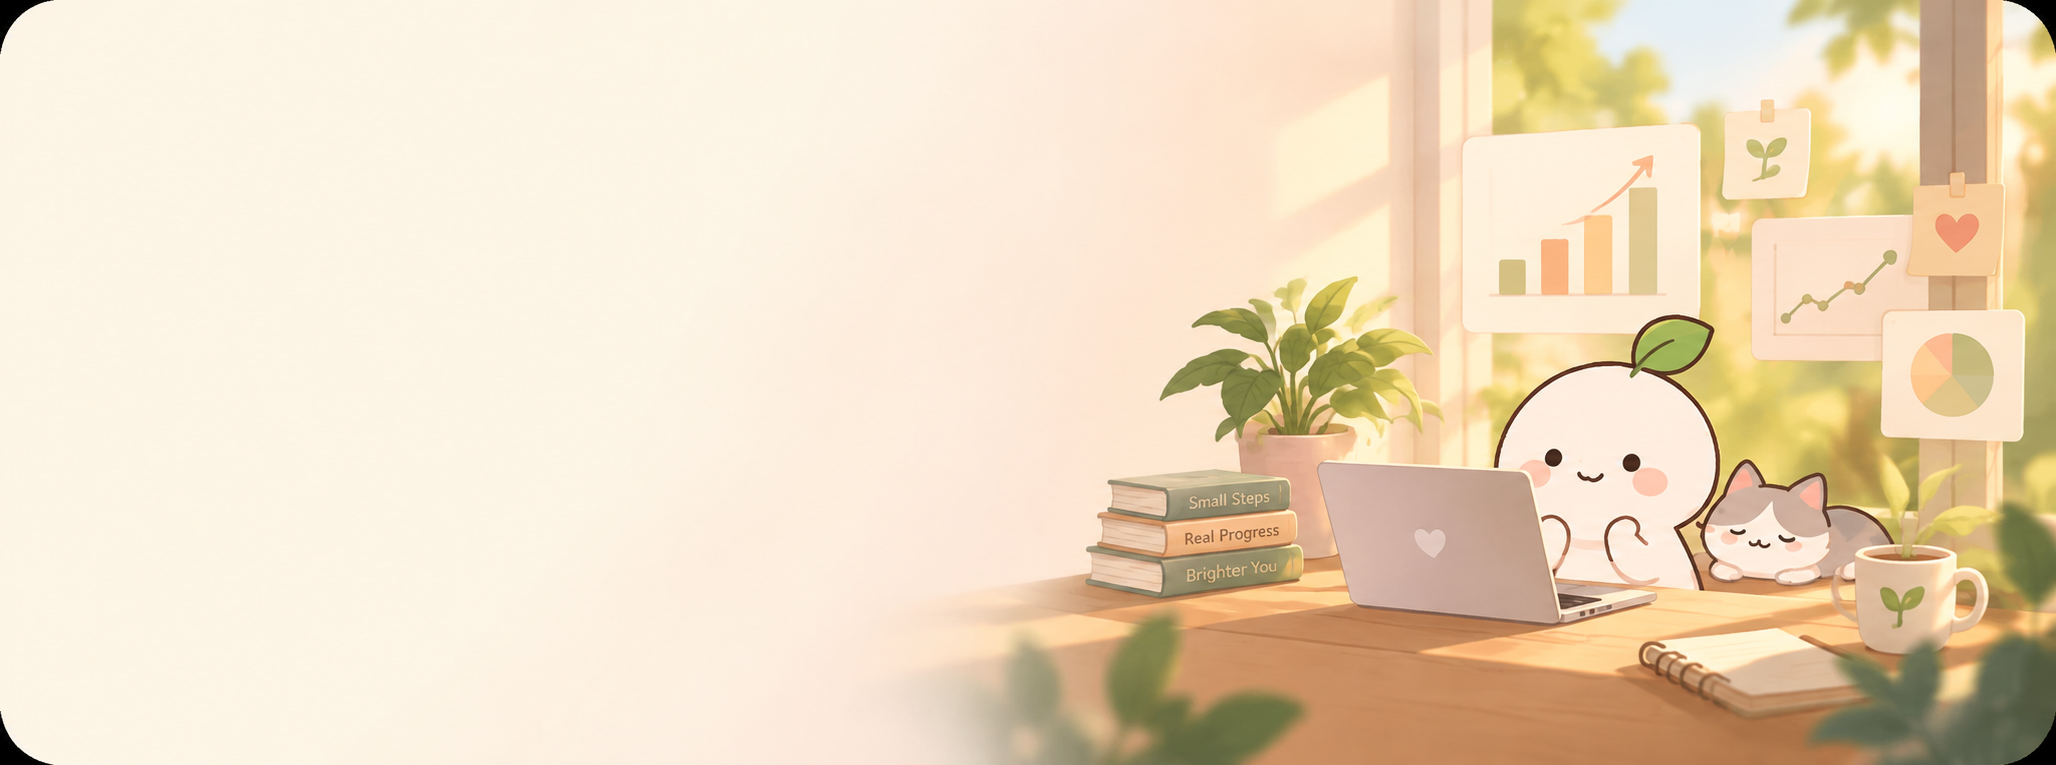
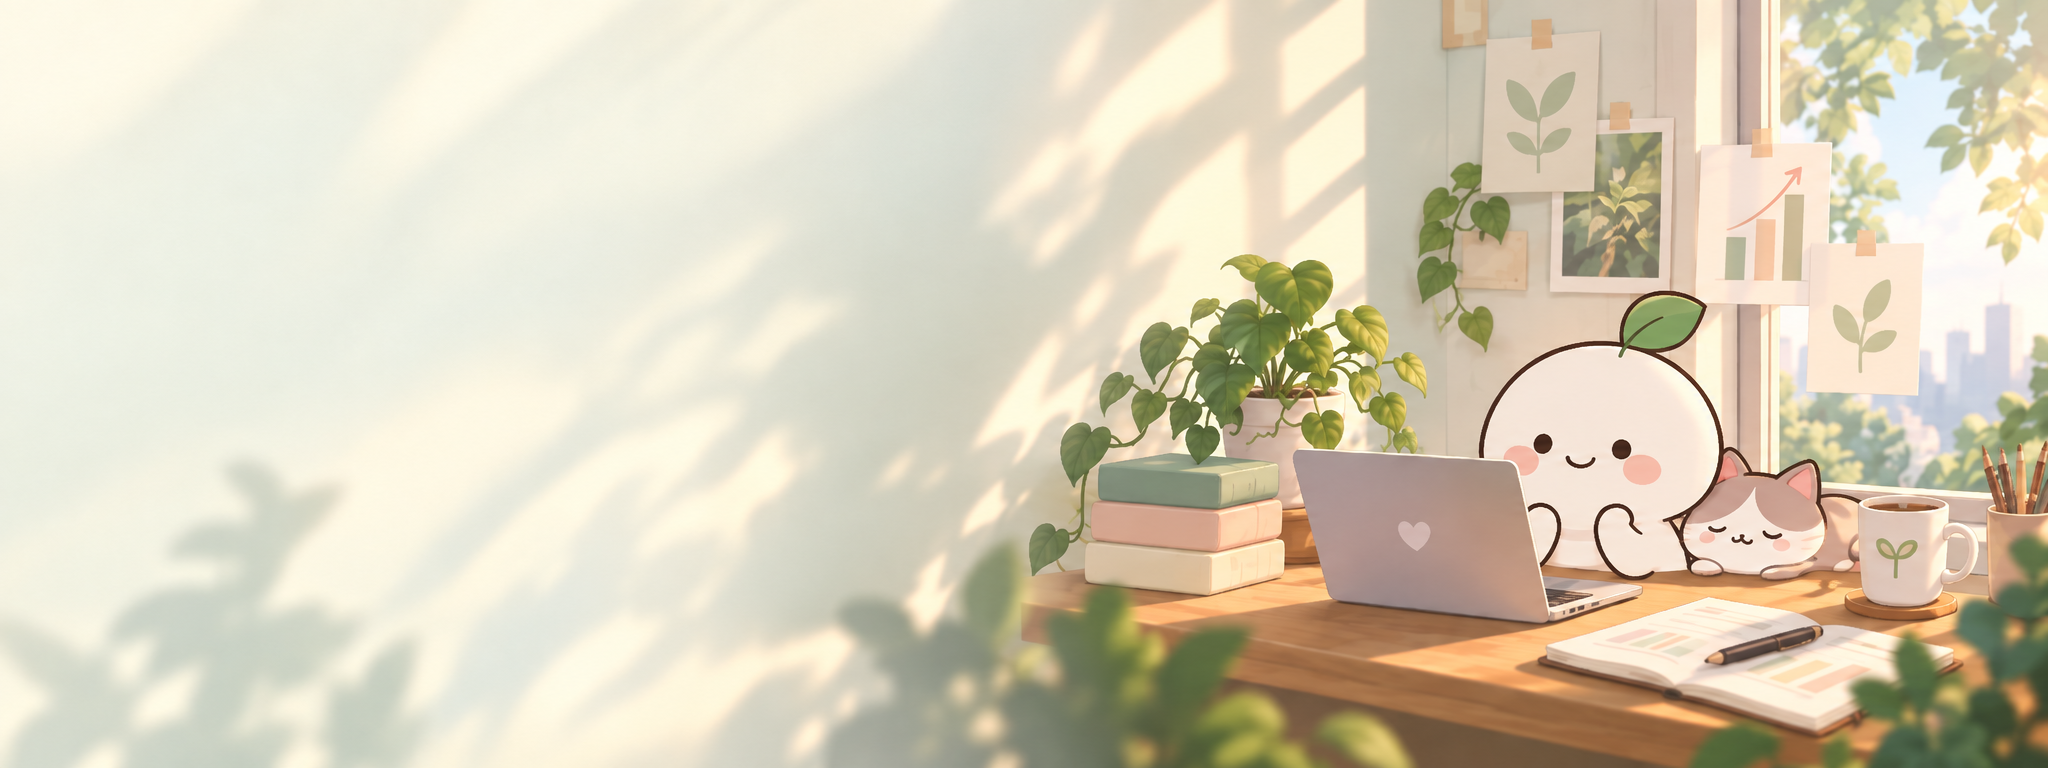
heros pic bug fix

diff --git a/src/js/home.js b/src/js/home.js
@@ -68,21 +68,60 @@ function pickHomeCopyIndex(poolLength,avoidIndex){
   if(idx===avoidIndex) idx=(idx+1)%poolLength;
   return idx;
 }
-const TAB_HERO_ACCENTS={
-  habits:["Progress lives in the everyday ♡","Small steps still count ♡","Keep the rhythm, not the pressure ♡","Tiny repeats become a life ♡","A little today is enough ♡"],
-  circle:["Good people make a softer tomorrow ♡","Keep the people who matter close ♡","Connection is part of a full life ♡","A small reach-out still counts ♡","Relationships grow in small moments ♡"],
-  trends:["Progress is easier to see from here ♡","Small steps leave a pattern ♡","Your rhythm tells a story ♡","Look for direction, not perfection ♡","Little changes become visible ♡"]
+// Sibling tabs (fixed artwork) get one curated {supporting, accent} PAIR per day, never
+// picked independently — a pair is written together so the two lines always agree in
+// tone (see philosophy notes per tab below). Same stable once-per-calendar-day mechanism
+// as Home's copy (HOME_COPY_KEY/dateKey), just storing a pair index instead of three.
+const TAB_HERO_COPY={
+  // Habits: consistency without perfection — smaller versions count, missing once
+  // doesn't erase progress, capacity is allowed to change. No streak-pressure language.
+  habits:[
+    {supporting:"A smaller version still counts as showing up.",accent:"Consistency, not perfection ♡"},
+    {supporting:"Missing a day doesn’t erase the ones before it.",accent:"Return, don’t restart ♡"},
+    {supporting:"Some days call for less, and that’s alright.",accent:"Capacity changes, care doesn’t ♡"},
+    {supporting:"Doing it imperfectly still keeps it alive.",accent:"Imperfect still counts ♡"},
+    {supporting:"Coming back is the whole practice.",accent:"Returning is the skill ♡"},
+    {supporting:"Small and steady beats big and rare.",accent:"Small steps still count ♡"},
+    {supporting:"Adjusting the shape still keeps it yours.",accent:"Adapting is part of it ♡"},
+    {supporting:"One small rhythm is enough for today.",accent:"Enough, not everything ♡"}
+  ],
+  // My Circle: intentional relationships without turning people into tasks — no
+  // overdue/due/late/obligation language, just ordinary small-moment connection.
+  circle:[
+    {supporting:"A short hello still means something.",accent:"Small moments build closeness ♡"},
+    {supporting:"You don’t need a big gesture to stay close.",accent:"Simple still counts ♡"},
+    {supporting:"Ordinary check-ins build closeness.",accent:"Connection grows gently ♡"},
+    {supporting:"A little attention goes a long way.",accent:"Presence over perfection ♡"},
+    {supporting:"Reaching out can be as simple as one line.",accent:"Keep it simple ♡"},
+    {supporting:"A small moment can mean a lot to them.",accent:"Small moments, real closeness ♡"},
+    {supporting:"Warmth doesn’t need to be planned.",accent:"Warmth in small doses ♡"},
+    {supporting:"A little thought keeps people close.",accent:"Closeness lives in small things ♡"}
+  ],
+  // Trends: notice patterns without judging yourself — no performance/scoring language,
+  // direction and noticing matter more than any single day.
+  trends:[
+    {supporting:"Patterns say more than any single day.",accent:"Notice the shape, not the score ♡"},
+    {supporting:"Progress rarely moves in a straight line.",accent:"Direction over perfection ♡"},
+    {supporting:"Zooming out shows what one day can’t.",accent:"The bigger picture is kinder ♡"},
+    {supporting:"An uneven week still tells you something true.",accent:"Imperfect weeks count too ♡"},
+    {supporting:"Noticing is already useful, no judgment required.",accent:"Just notice, don’t judge ♡"},
+    {supporting:"What matters is where you’re heading.",accent:"Trends over totals ♡"},
+    {supporting:"A dip doesn’t undo the pattern around it.",accent:"One dip isn’t the story ♡"},
+    {supporting:"Small shifts add up more than they seem.",accent:"Small shifts add up ♡"}
+  ]
 };
-function renderTabHeroAccent(kind,elementId){
-  const pool=TAB_HERO_ACCENTS[kind],today=dateKey(),storageKey=`${kind}Accent`;
+function renderTabHeroCopy(kind,supportingElId,accentElId){
+  const pool=TAB_HERO_COPY[kind],today=dateKey(),storageKey=`${kind}Copy`;
   let all={};
   try{ all=JSON.parse(localStorage.getItem(HOME_COPY_KEY)||"{}"); }catch{ all={}; }
   const prior=all[storageKey];
-  if(!prior||prior.date!==today||prior.a>=pool.length){
-    all[storageKey]={date:today,a:pickHomeCopyIndex(pool.length,prior?.a??-1)};
+  if(!prior||prior.date!==today||prior.i>=pool.length){
+    all[storageKey]={date:today,i:pickHomeCopyIndex(pool.length,prior?.i??-1)};
     try{ localStorage.setItem(HOME_COPY_KEY,JSON.stringify(all)); }catch{}
   }
-  document.getElementById(elementId).textContent=pool[all[storageKey].a];
+  const pick=pool[all[storageKey].i];
+  document.getElementById(supportingElId).textContent=pick.supporting;
+  document.getElementById(accentElId).textContent=pick.accent;
 }
 // Stable for the current (day, time block): re-picks only when the date or the block has
 // changed since the last render, and — when it does re-pick — avoids repeating yesterday's

diff --git a/index.html b/index.html
@@ -61,8 +61,7 @@
       <div class="tab-hero-copy tw:relative! tw:z-10! tw:w-3/5! tw:max-w-none!">
         <div class="eyebrow tw:text-[13px]! tw:font-semibold! tw:leading-4! tw:tracking-[0.04em]!">Build a kinder you</div>
         <h1 class="tw:mt-2! tw:mb-0! tw:text-[26px]! tw:font-semibold! tw:leading-[1.08]! tw:tracking-[-0.02em]!">Habits</h1>
-        <div class="sub tw:mt-2! tw:max-w-none! tw:text-sm! tw:leading-5!">Small steps, big change.</div>
-        <div class="tab-hero-secondary tw:mt-1 tw:text-xs tw:leading-4">Let’s keep your rhythm going.</div>
+        <div class="sub tw:mt-2! tw:max-w-none! tw:text-sm! tw:leading-5!" id="habitsHeroSupporting"></div>
         <div class="tab-hero-accent tw:mt-3 tw:max-w-[180px] tw:text-sm tw:leading-[1.2]" id="habitsHeroAccent"></div>
       </div>
       <div class="tab-hero-actions tw:top-4! tw:right-4! tw:z-20!">
@@ -197,8 +196,7 @@
       <div class="tab-hero-copy tw:relative! tw:z-10! tw:w-3/5! tw:max-w-none!">
         <div class="eyebrow tw:text-[13px]! tw:font-semibold! tw:leading-4! tw:tracking-[0.04em]!">See your rhythm</div>
         <h1 class="tw:mt-2! tw:mb-0! tw:text-[26px]! tw:font-semibold! tw:leading-[1.08]! tw:tracking-[-0.02em]!">Trends</h1>
-        <div class="sub tw:mt-2! tw:max-w-none! tw:text-sm! tw:leading-5!">Notice what’s taking shape.</div>
-        <div class="tab-hero-secondary tw:mt-1 tw:text-xs tw:leading-4">Small patterns can tell a bigger story.</div>
+        <div class="sub tw:mt-2! tw:max-w-none! tw:text-sm! tw:leading-5!" id="trendsHeroSupporting"></div>
         <div class="tab-hero-accent tw:mt-3 tw:max-w-[180px] tw:text-sm tw:leading-[1.2]" id="trendsHeroAccent"></div>
       </div>
     </div>
@@ -233,8 +231,7 @@
       <div class="tab-hero-copy tw:relative! tw:z-10! tw:w-[62.5%]! tw:max-w-none!">
         <div class="eyebrow tw:text-[13px]! tw:font-semibold! tw:leading-4! tw:tracking-[0.04em]!">People make life richer</div>
         <h1 class="tw:mt-2! tw:mb-0! tw:text-[26px]! tw:font-semibold! tw:leading-[1.08]! tw:tracking-[-0.02em]!">My Circle</h1>
-        <div class="sub tw:mt-2! tw:max-w-none! tw:text-sm! tw:leading-5!">Nurture the people who matter.</div>
-        <div class="tab-hero-secondary tw:mt-1 tw:text-xs tw:leading-4">Good relationships make life lighter.</div>
+        <div class="sub tw:mt-2! tw:max-w-none! tw:text-sm! tw:leading-5!" id="circleHeroSupporting"></div>
         <div class="tab-hero-accent tw:mt-3 tw:max-w-[180px] tw:text-sm tw:leading-[1.2]" id="circleHeroAccent"></div>
       </div>
       <div class="tab-hero-actions tw:top-4! tw:right-4! tw:z-20!">

diff --git a/src/js/habits.js b/src/js/habits.js
@@ -219,7 +219,7 @@ function renderHabitsBanner(){
   el.innerHTML=`<span class="habits-banner-icon" aria-hidden="true">🌿</span><span>${escapeHTML(HABITS_BLOCK_BANNER[habitsSelectedBlock]||HABITS_BLOCK_BANNER.morning)}</span>`;
 }
 function renderToday(){
-  renderTabHeroAccent("habits","habitsHeroAccent");
+  renderTabHeroCopy("habits","habitsHeroSupporting","habitsHeroAccent");
   const gentle=gentleDayOn();
   const gentleBtn=document.getElementById("gentleModeBtn");
   gentleBtn.classList.toggle("active",gentle);
@@ -558,7 +558,7 @@ function getLast7Days(){
   return arr;
 }
 function renderWeek(){
-  renderTabHeroAccent("trends","trendsHeroAccent");
+  renderTabHeroCopy("trends","trendsHeroSupporting","trendsHeroAccent");
   const days=getLast7Days();
   const grid=document.getElementById("weekGrid");
   grid.innerHTML="";

diff --git a/sw.js b/sw.js
@@ -3,7 +3,7 @@
 // updates when sw.js's OWN bytes change; it does not re-check importScripts()
 // targets, so deriving this from version.js silently breaks update detection there.
 const CACHE_PREFIX = "personal-workbench-";
-const CACHE_NAME = "personal-workbench-v0.31.20";
+const CACHE_NAME = "personal-workbench-v0.31.21";
 const APP_SHELL = [
   "./", "./index.html", "./manifest.webmanifest", "./assets/icon.svg", "./assets/icon-192.png", "./assets/icon-512.png",
   "./assets/home-morning.png", "./assets/home-afternoon.png", "./assets/home-evening.png", "./assets/home-late-night.png",

diff --git a/src/js/circle.js b/src/js/circle.js
@@ -87,7 +87,7 @@ function circleMatches(p){
 // nudge card's ••• menu, instead of listed on the landing page.
 let circleNudgeSkipIds=new Set();
 function renderCircle(){
-  renderTabHeroAccent("circle","circleHeroAccent");
+  renderTabHeroCopy("circle","circleHeroSupporting","circleHeroAccent");
   const peopleList=document.getElementById("circlePeopleList");
   const hero=document.getElementById("circleHeroCard");
   const recentList=document.getElementById("circleRecentList");
